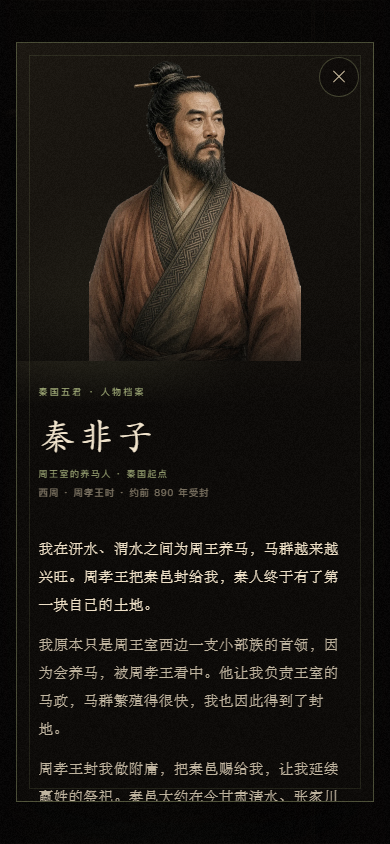
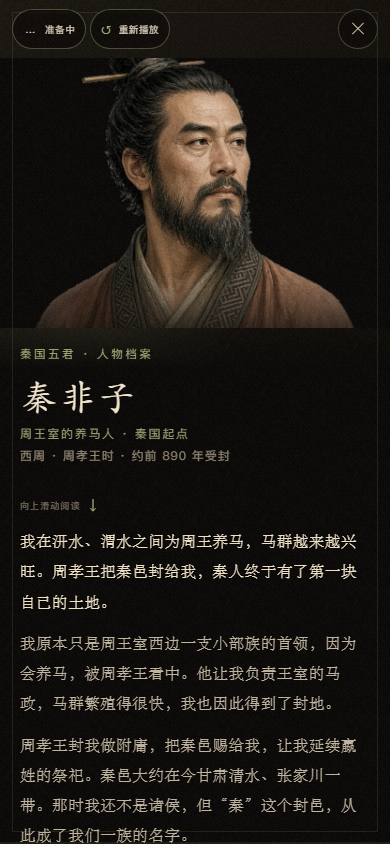
style: improve mobile reading layout

diff --git a/styles.css b/styles.css
@@ -1597,7 +1597,7 @@ body.all-visited .coda.in-view .seal {
   }
 
   .view-cue {
-    top: 14px;
+    top: calc(14px + env(safe-area-inset-top));
     right: 12px;
     padding: 5px 8px 5px 6px;
     font-size: 9.5px;
@@ -2377,6 +2377,13 @@ body.is-revealed .sound-toggle {
   pointer-events: auto;
 }
 
+body.spotlight-open .sound-toggle {
+  opacity: 0;
+  visibility: hidden;
+  transform: translateY(8px);
+  pointer-events: none;
+}
+
 .sound-toggle:hover,
 .sound-toggle:focus-visible {
   color: var(--ink);
@@ -2497,6 +2504,10 @@ body.is-revealed .sound-toggle {
   height: 1px;
   margin: 16px 0 14px;
   background: rgba(var(--accent-rgb), 0.45);
+}
+
+.spotlight-scroll-hint {
+  display: none;
 }
 
 .spotlight-story {
@@ -2651,30 +2662,48 @@ body.is-revealed .sound-toggle {
 @media (max-width: 760px) {
   .spotlight-panel {
     grid-template-columns: 1fr;
-    grid-template-rows: 42% 58%;
-    width: 92vw;
-    height: 90dvh;
+    grid-template-rows: 58px minmax(160px, 32dvh) 1fr;
+    width: 100vw;
+    height: 100dvh;
     max-width: none;
     max-height: none;
-    border: 1px solid rgba(var(--accent-rgb), 0.4);
+    padding-top: env(safe-area-inset-top);
+    border: 0;
+  }
+
+  .spotlight-figure {
+    grid-row: 2;
+    background: #0b0907;
+  }
+
+  .spotlight-figure img {
+    width: 100%;
+    max-width: none;
+    height: 100%;
+    object-fit: cover;
+    object-position: center 10%;
   }
 
   .spotlight-copy {
+    grid-row: 3;
     justify-content: flex-start;
-    padding: 24px 22px 30px;
-    background: linear-gradient(180deg, rgba(11, 9, 7, 0) 0%, #0b0907 10%);
+    padding: 18px 20px calc(24px + env(safe-area-inset-bottom));
+    background: linear-gradient(180deg, rgba(11, 9, 7, 0) 0%, #0b0907 8%);
+    overscroll-behavior: contain;
   }
 
   .spotlight-close {
-    top: 14px;
-    right: 14px;
+    top: calc(9px + env(safe-area-inset-top));
+    right: 12px;
     width: 40px;
     height: 40px;
   }
 
   .spotlight-audio-controls {
-    top: 14px;
-    right: 62px;
+    top: calc(9px + env(safe-area-inset-top));
+    right: 60px;
+    left: 12px;
+    justify-content: flex-start;
     gap: 4px;
   }
 
@@ -2691,13 +2720,33 @@ body.is-revealed .sound-toggle {
   }
 
   .sound-toggle {
-    bottom: 14px;
+    bottom: calc(14px + env(safe-area-inset-bottom));
     left: 14px;
     min-height: 34px;
   }
 
+  .reveal .spine {
+    padding-bottom: calc(28px + env(safe-area-inset-bottom));
+  }
+
   .spotlight-name {
     font-size: 36px;
+  }
+
+  .spotlight-scroll-hint {
+    display: flex;
+    align-items: center;
+    gap: 6px;
+    margin: 0 0 13px;
+    color: rgba(207, 192, 164, 0.55);
+    font-family: var(--font-sans);
+    font-size: 9px;
+    letter-spacing: 0.12em;
+  }
+
+  .spotlight-scroll-hint span {
+    color: var(--accent);
+    font-size: 13px;
   }
 
   .spotlight-story {
@@ -2711,7 +2760,69 @@ body.is-revealed .sound-toggle {
   }
 
   .spotlight-rule {
-    margin: 18px 0 16px;
+    margin: 16px 0 14px;
+  }
+
+  .reveal .rail {
+    scroll-snap-type: x mandatory;
+    overscroll-behavior-inline: contain;
+    -webkit-overflow-scrolling: touch;
+  }
+
+  .reveal .ruler {
+    flex-basis: 84vw;
+    scroll-snap-align: center;
+    scroll-snap-stop: always;
+  }
+
+  body.is-revealed .prologue {
+    transition-duration: 0.45s;
+  }
+}
+
+@media (max-width: 760px) and (max-height: 650px) {
+  .spotlight-panel {
+    grid-template-rows: 52px minmax(120px, 24dvh) 1fr;
+  }
+
+  .spotlight-close {
+    top: 6px;
+    width: 38px;
+    height: 38px;
+  }
+
+  .spotlight-audio-controls {
+    top: 6px;
+  }
+
+  .spotlight-audio-btn,
+  .spotlight-audio-replay {
+    height: 38px;
+    padding: 0 9px;
+    font-size: 9px;
+  }
+
+  .spotlight-copy {
+    padding: 14px 18px calc(20px + env(safe-area-inset-bottom));
+  }
+
+  .spotlight-name {
+    font-size: 32px;
+  }
+
+  .spotlight-scroll-hint {
+    margin-bottom: 10px;
+    font-size: 8.5px;
+  }
+
+  .spotlight-story {
+    gap: 9px;
+  }
+
+  .spotlight-story p,
+  .spotlight-story p:first-child {
+    font-size: 15px;
+    line-height: 1.85;
   }
 }
 

diff --git a/index.html b/index.html
@@ -110,6 +110,7 @@
         <p class="spotlight-role" id="spotlight-role"></p>
         <p class="spotlight-era" id="spotlight-era"></p>
         <span class="spotlight-rule" aria-hidden="true"></span>
+        <p class="spotlight-scroll-hint" aria-hidden="true">向上滑动阅读 <span>↓</span></p>
         <div class="spotlight-story" id="spotlight-story" aria-hidden="true"></div>
         <p class="sr-only" id="spotlight-description"></p>
         <p class="spotlight-meta" id="spotlight-meta"></p>
